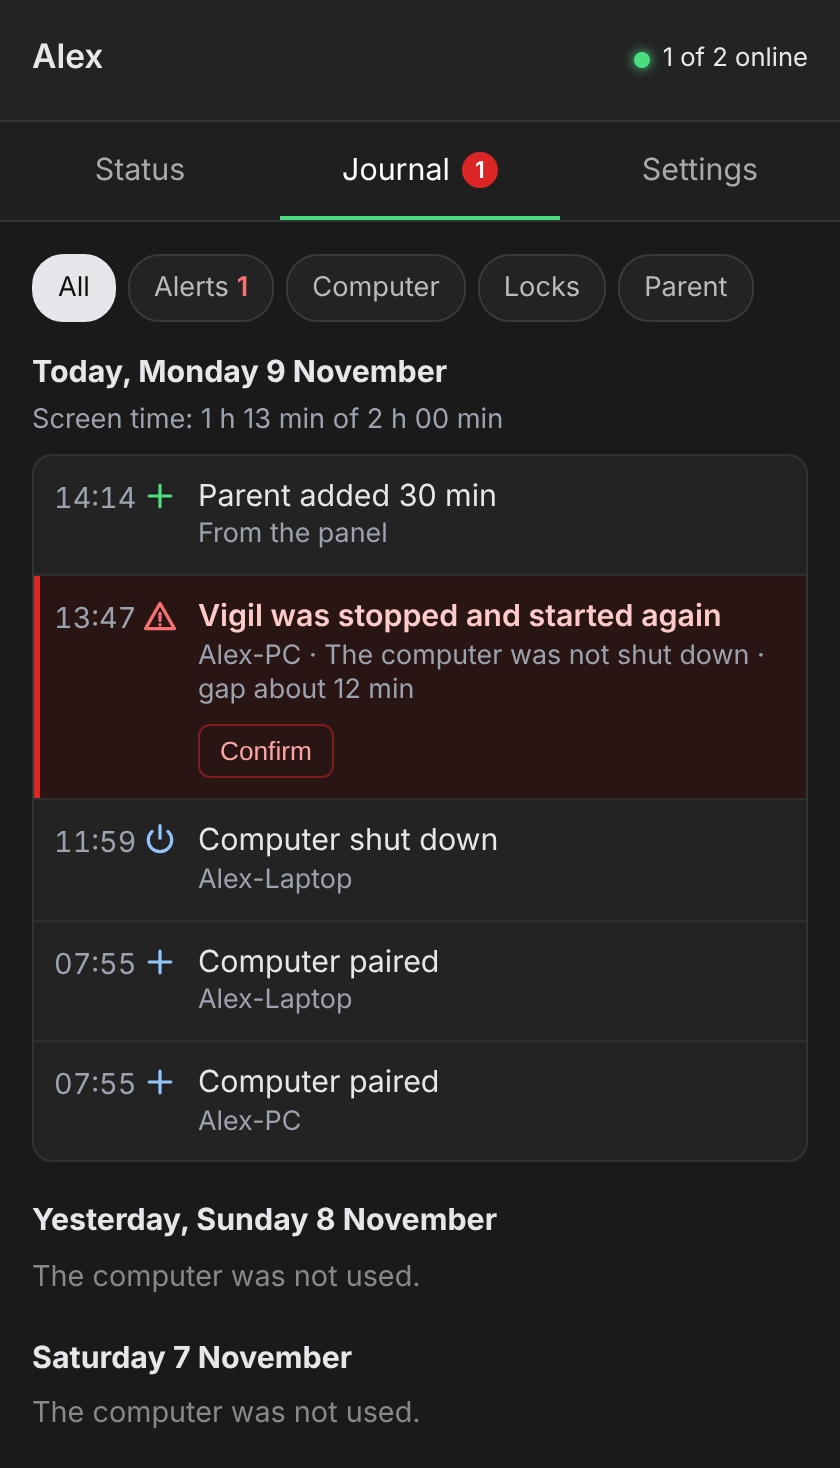
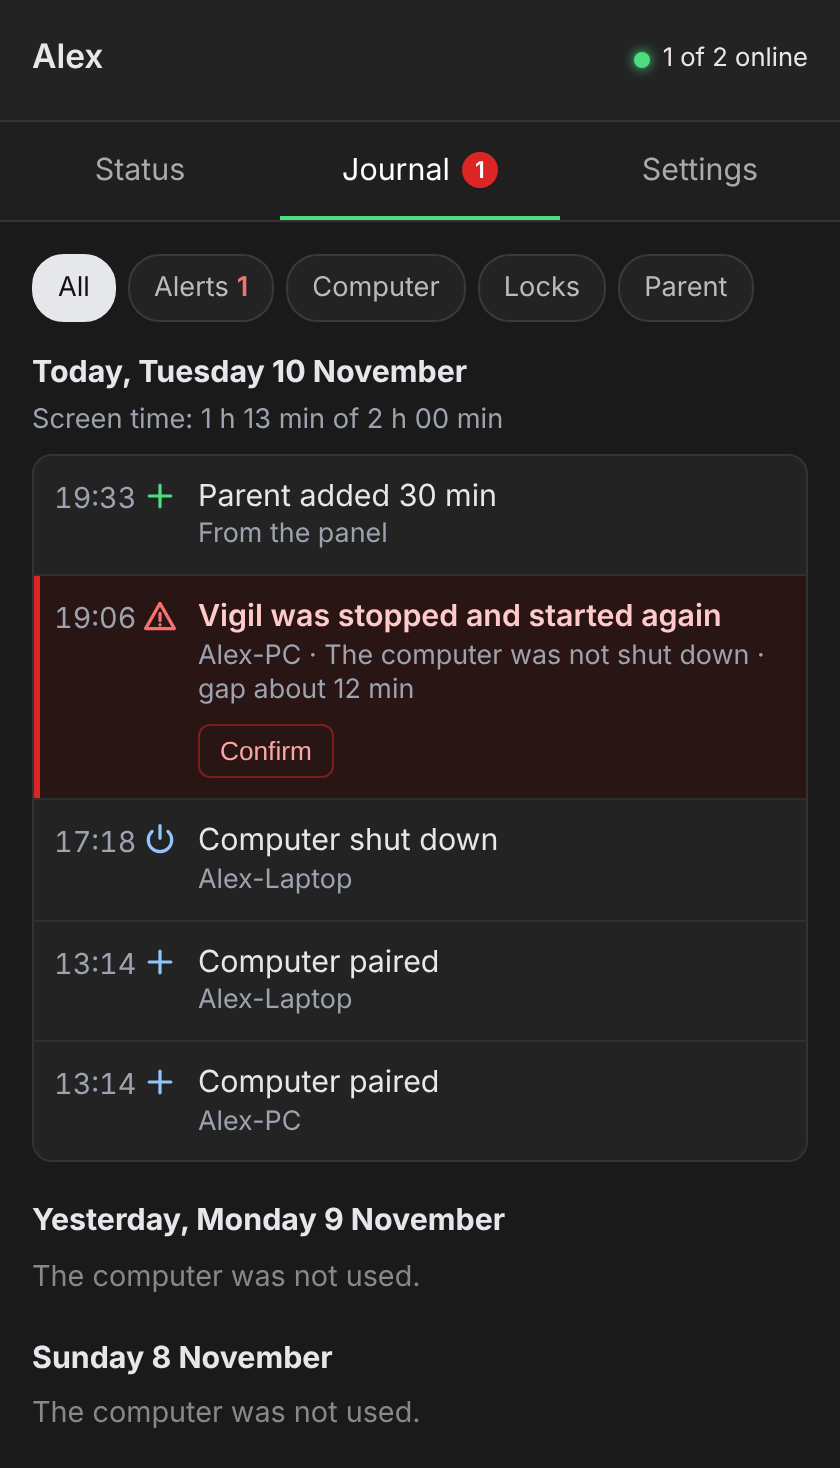
docs: readable How it works diagram, fuller Settings screenshot (#96)
The Mermaid chart was about 1500 px wide and GitHub scaled it to the README
column, so its text came out around 9 px. It is replaced by a hand-written SVG,
900 px wide with 13-16 px text, in the panel's colours, in English and Polish
(how-it-works.svg, how-it-works.pl.svg). It adds the TOTP path to the lock screen
and the three rules (fail-closed after 30 s, lock order, alerts).

The third screenshot shows the Settings tab from its header through the child's
computers instead of the Weekly schedule card alone. All three screenshots were
retaken together from a server of main, with the data entered through its API.

CLAUDE.md: the diagram is SVG in two languages, change both with the architecture.

Claude-Session: https://claude.ai/code/session_01L3FN1FDxFVv8p4iMPXDFnY

diff --git a/README.pl.md b/README.pl.md
@@ -15,7 +15,7 @@ wszystkim z przeglądarki i odblokowuje kodem TOTP z telefonu.
   &nbsp;
   <img src="docs/images/journal-alert.png" alt="Dziennik z alertem o ponownym uruchomieniu Vigila" width="260" align="top">
   &nbsp;
-  <img src="docs/images/panel-schedule.png" alt="Harmonogram tygodnia" width="260" align="top">
+  <img src="docs/images/panel-settings.png" alt="Ustawienia: harmonogram tygodnia i komputery dziecka" width="260" align="top">
 </p>
 
 > **Przed wersją 1.0, w codziennym użyciu.** Dziecko z uprawnieniami administratora jest w stanie Vigila obejść.
@@ -23,23 +23,9 @@ wszystkim z przeglądarki i odblokowuje kodem TOTP z telefonu.
 
 ## Jak to działa
 
-```mermaid
-flowchart LR
-    parent["Rodzic<br/>przeglądarka + aplikacja TOTP"]
-    subgraph home["Serwer domowy (Docker)"]
-        server["Serwer Vigil<br/>FastAPI + SQLite<br/>czas, harmonogram, blokady"]
-    end
-    subgraph pc["PC dziecka (Windows 10/11)"]
-        watchdog["vigil_watchdog<br/>usługa Windows (SYSTEM)"]
-        ui["vigil_ui<br/>ikona w zasobniku + ekran blokady"]
-        guardian["Vigil Guardian<br/>zadanie co 5 min"]
-    end
-    parent -- "panel /admin" --> server
-    watchdog -- "podpisany heartbeat" --> server
-    server -- "blokada czy nie, pozostałe minuty" --> watchdog
-    watchdog <-- "nazwany potok" --> ui
-    guardian -. "naprawy, zgłaszane jako alerty" .-> watchdog
-```
+<p align="center">
+  <img src="docs/images/how-it-works.pl.svg" alt="Jak działa Vigil: panel rodzica i usługi na PC dziecka rozmawiają z jednym serwerem" width="900">
+</p>
 
 - Usługa na PC co kilka sekund (w czasie blokady co sekundę) wysyła podpisany heartbeat.
 - Serwer dolicza czas dziecku — łącznie ze wszystkich jego komputerów — i decyduje o blokadzie: blokada ręczna,

diff --git a/README.md b/README.md
@@ -15,7 +15,7 @@ manages everything from a browser and unlocks with a TOTP code from their phone.
   &nbsp;
   <img src="docs/images/journal-alert.png" alt="Journal with an alert about Vigil being restarted" width="260" align="top">
   &nbsp;
-  <img src="docs/images/panel-schedule.png" alt="Weekly schedule" width="260" align="top">
+  <img src="docs/images/panel-settings.png" alt="Settings: weekly schedule and the child's computers" width="260" align="top">
 </p>
 
 > **Before 1.0, in daily use.** A child with administrator rights can get around Vigil. Vigil makes that harder
@@ -23,23 +23,9 @@ manages everything from a browser and unlocks with a TOTP code from their phone.
 
 ## How it works
 
-```mermaid
-flowchart LR
-    parent["Parent<br/>browser + TOTP app"]
-    subgraph home["Home server (Docker)"]
-        server["Vigil server<br/>FastAPI + SQLite<br/>time, schedule, locks"]
-    end
-    subgraph pc["Child's PC (Windows 10/11)"]
-        watchdog["vigil_watchdog<br/>Windows service (SYSTEM)"]
-        ui["vigil_ui<br/>tray icon + lock screen"]
-        guardian["Vigil Guardian<br/>task, every 5 min"]
-    end
-    parent -- "panel /admin" --> server
-    watchdog -- "signed heartbeat" --> server
-    server -- "lock or not, minutes left" --> watchdog
-    watchdog <-- "named pipe" --> ui
-    guardian -. "repairs, reported as alerts" .-> watchdog
-```
+<p align="center">
+  <img src="docs/images/how-it-works.svg" alt="How Vigil works: the parent's panel and the services on the child's PC talk to one server" width="900">
+</p>
 
 - The service on the PC sends a signed heartbeat every few seconds (every second while locked).
 - The server adds the time to the child — summed over all of the child's PCs — and decides whether to lock:

diff --git a/CLAUDE.md b/CLAUDE.md
@@ -143,6 +143,8 @@ everywhere the same problem occurs, not only where it was reported.
   Update this file in the same PR when an invariant or gotcha changes.
 - User-visible changes get a line under `## [Unreleased]` in `CHANGELOG.md` in the same PR; at a release the
   maintainer moves it under the version, and the release notes are written from that section.
-- `README.md` and `README.pl.md` carry the same content; change both. `CONTRIBUTING.md` is the human version of
-  this file's rules — keep them in step. Nothing from the maintainer's environment (addresses, host names, paths,
+- `README.md` and `README.pl.md` carry the same content; change both. The "How it works" diagram is hand-written
+  SVG, `docs/images/how-it-works.svg` and `how-it-works.pl.svg` (Mermaid was scaled to ~9 px text in the README
+  column): change both when the architecture changes; keep them 900 px wide with text of 13 px or more.
+  `CONTRIBUTING.md` is the human version of this file's rules — keep them in step. Nothing from the maintainer's environment (addresses, host names, paths,
   test data) goes into the repo, issues, PRs or release notes.

diff --git a/CHANGELOG.md b/CHANGELOG.md
@@ -5,6 +5,10 @@ the release tags. The reasoning behind each design decision (D1–D26) is in [`d
 
 ## [Unreleased]
 
+### Documentation
+- README: the "How it works" diagram is a picture readable at the page's width (the Mermaid chart was scaled
+  down to about 9 px text); the third screenshot shows the whole Settings tab, not one card.
+
 ## [0.8.1] - 2026-11-10
 
 ### Server
